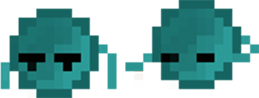
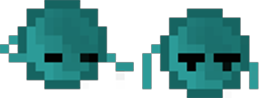
finished level, mirrored enemies

diff --git a/Scenes/level-objects.js b/Scenes/level-objects.js
@@ -3,10 +3,11 @@ import Platform from '../GameObjects/platform.js'
 
 export function spawnEnemies (scene) {
   scene.enemies = scene.add.group()
-  scene.enemies.add(new Enemy(scene, 800, 1700, 'red_enemy', 800, 2250, 1000, 0.6))
+  scene.enemies.add(new Enemy(scene, 800, 1700, 'red_enemy', 800, 2180, 1000, 0.6))
   scene.enemies.add(new Enemy(scene, 50, 2150, 'green_enemy', 350, 2150, 1000, 0.6))
-  scene.enemies.add(new Enemy(scene, 530, 1050, 'orange_enemy', 830, 1050, 750, 0.6))
-  // scene.enemies.add(new Enemy(scene, 260, 1700, 'blue_enemy', 420, 2400, 1000, 0.6))
+  scene.enemies.add(new Enemy(scene, 820, 1200, 'orange_enemy', 600, 1200, 1000, 0.6))
+  scene.enemies.add(new Enemy(scene, 140, 625, 'blue_enemy', 140, 325, 1500, 0.6))
+  scene.enemies.add(new Enemy(scene, 735, -225, 'red_enemy', null, null, null, 0.6))
 }
 
 export function spawnPlatforms (scene) {
@@ -24,17 +25,15 @@ export function spawnPlatforms (scene) {
   scene.platforms.add(new Platform(scene, 25, 1650, 'platform4'))
   scene.platforms.add(new Platform(scene, 195, 1435, 'platform1'))
   scene.platforms.add(new Platform(scene, 420, 1300, 'platform2'))
-  scene.platforms.add(new Platform(scene, 960, 1180, 'platform3'))
-  scene.platforms.add(new Platform(scene, 550, 1290, 'platform1', 750, 1290, 1000))
-  scene.platforms.add(new Platform(scene, 1000, 975, 'platform1'))
-  scene.platforms.add(new Platform(scene, 900, 830, 'platform1'))
-  scene.platforms.add(new Platform(scene, 475, 675, 'platform4'))
-  scene.platforms.add(new Platform(scene, 300, 550, 'platform2'))
-  scene.platforms.add(new Platform(scene, 100, 400, 'platform2'))
-  scene.platforms.add(new Platform(scene, 350, 250, 'platform2'))
-  scene.platforms.add(new Platform(scene, 500, 100, 'platform2'))
-  scene.platforms.add(new Platform(scene, 600, -50, 'platform2'))
+  scene.platforms.add(new Platform(scene, 600, 1290, 'platform1', 820, 1290, 1000))
+  scene.platforms.add(new Platform(scene, 980, 1150, 'platform3'))
+  scene.platforms.add(new Platform(scene, 850, 920, 'platform1', 525, 750, 1500))
+  scene.platforms.add(new Platform(scene, 150, 920, 'platform1', 425, 750, 1500))
+  scene.platforms.add(new Platform(scene, -70, 675, 'platform4'))
+  scene.platforms.add(new Platform(scene, 0, 370, 'platform1'))
+  scene.platforms.add(new Platform(scene, 350, 220, 'platform1', 550, 150, 750))
+  scene.platforms.add(new Platform(scene, 670, 20, 'platform1'))
   scene.platforms.add(new Platform(scene, 900, -150, 'platform4'))
 
-  scene.finishZone = scene.physics.add.existing(new Phaser.GameObjects.Rectangle(scene, 900, -215, 245, 35), true)
+  scene.finishZone = scene.physics.add.existing(new Phaser.GameObjects.Rectangle(scene, 900, -215, 225, 35), true)
 }

diff --git a/Scenes/level-scene.js b/Scenes/level-scene.js
@@ -31,7 +31,7 @@ export class levelScene extends Phaser.Scene {
     this.load.spritesheet('player', './Assets/player.png', { frameWidth: 60, frameHeight: 84, spacing: 6 })
     this.load.spritesheet('red_enemy', './Assets/red_enemy.png', { frameWidth: 123, frameHeight: 98, spacing: 4 })
     this.load.spritesheet('green_enemy', './Assets/green_enemy.png', { frameWidth: 126, frameHeight: 81, spacing: 7 })
-    this.load.spritesheet('blue_enemy', './Assets/blue_enemy.png', { frameWidth: 129, frameHeight: 98, spacing: 1 })
+    this.load.spritesheet('blue_enemy', './Assets/blue_enemy.png', { frameWidth: 124, frameHeight: 98, spacing: 11 })
     this.load.spritesheet('orange_enemy', './Assets/orange_enemy.png', { frameWidth: 115, frameHeight: 81, spacing: 2 })
 
     this.load.audio('jump', './Assets/jump.wav')

diff --git a/GameObjects/enemy.js b/GameObjects/enemy.js
@@ -34,6 +34,11 @@ export default class Enemy extends Phaser.Physics.Arcade.Sprite {
   }
 
   moveToTarget () {
+    if (this.defaultX < this.targetX) {
+      this.setFlipX(false)
+    } else {
+      this.setFlipX(true)
+    }
     this.x = this.defaultX
     this.y = this.defaultY
     this.scene.physics.moveTo(this, this.targetX, this.targetY, null, this.duration)
@@ -41,6 +46,11 @@ export default class Enemy extends Phaser.Physics.Arcade.Sprite {
   }
 
   moveTodefault () {
+    if (this.targetX < this.defaultX) {
+      this.setFlipX(false)
+    } else {
+      this.setFlipX(true)
+    }
     this.x = this.targetX
     this.y = this.targetY
     this.scene.physics.moveTo(this, this.defaultX, this.defaultY, null, this.duration)
